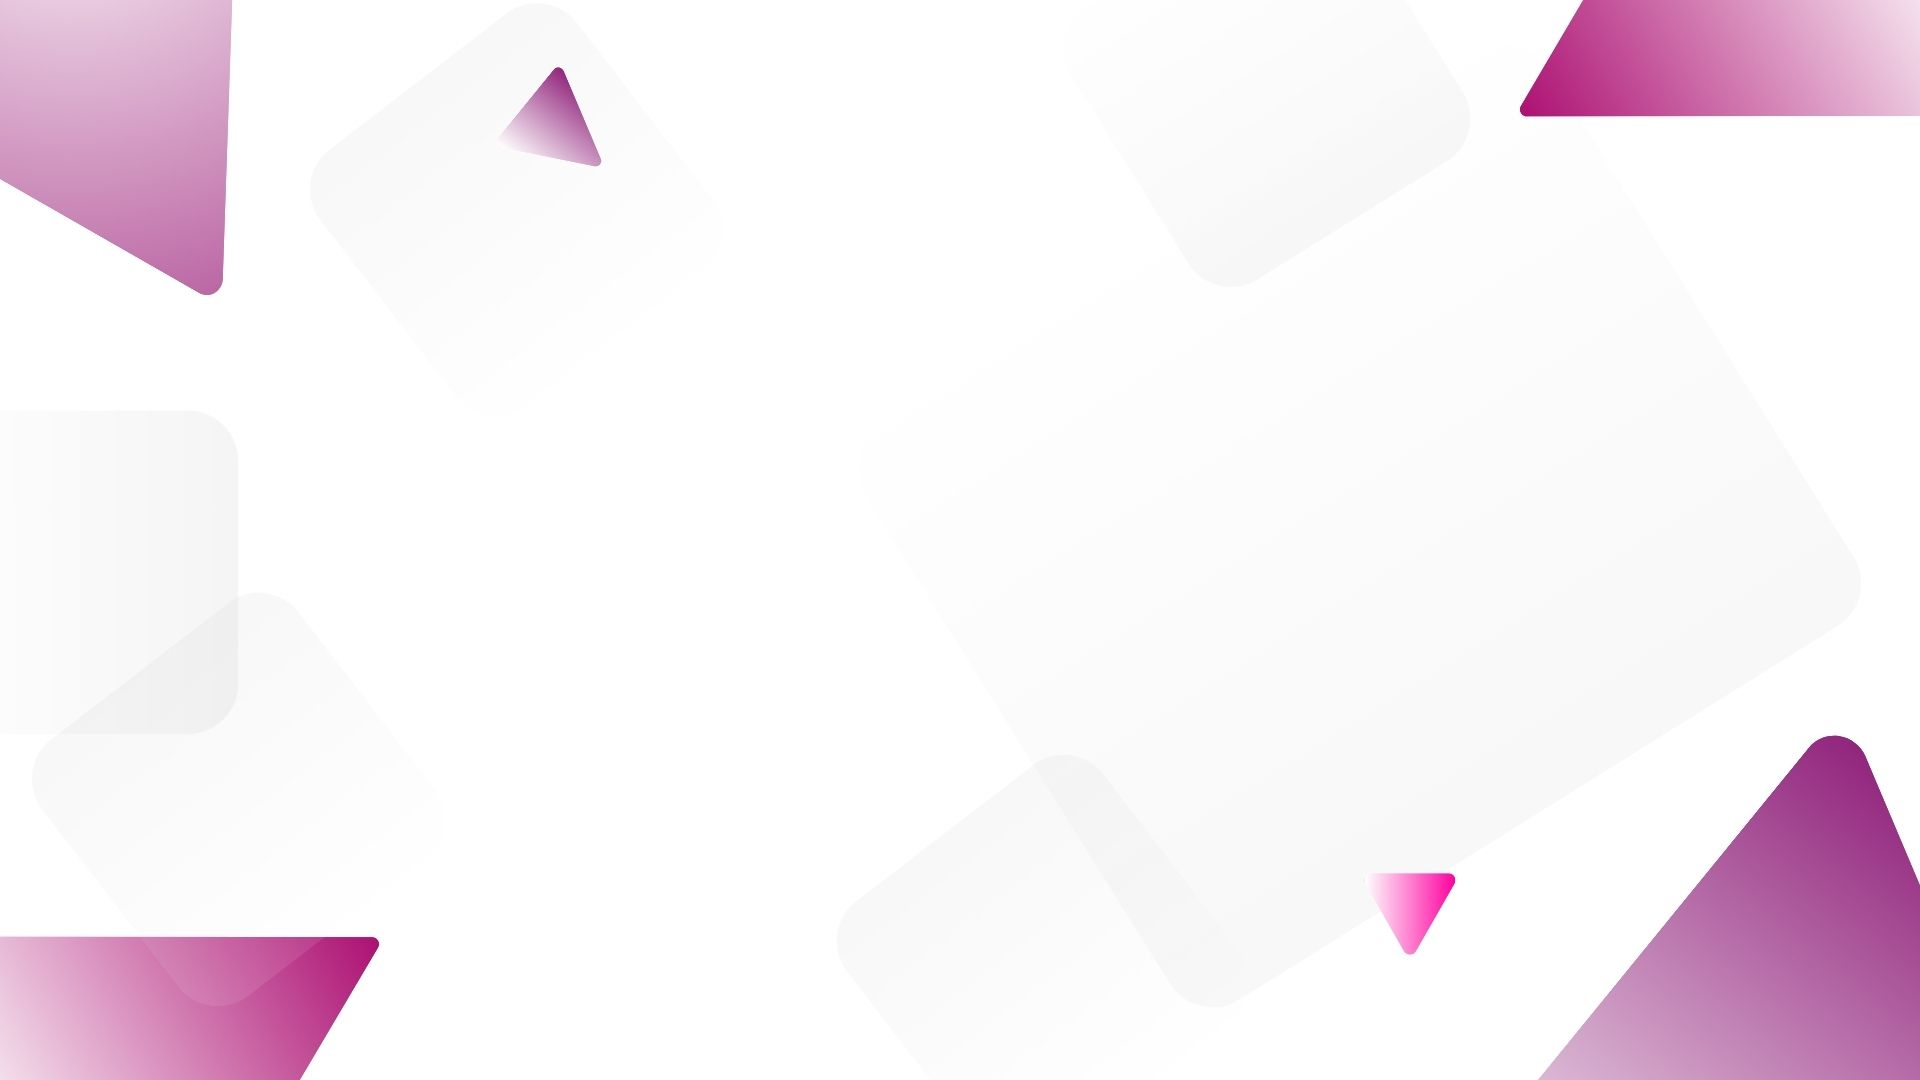
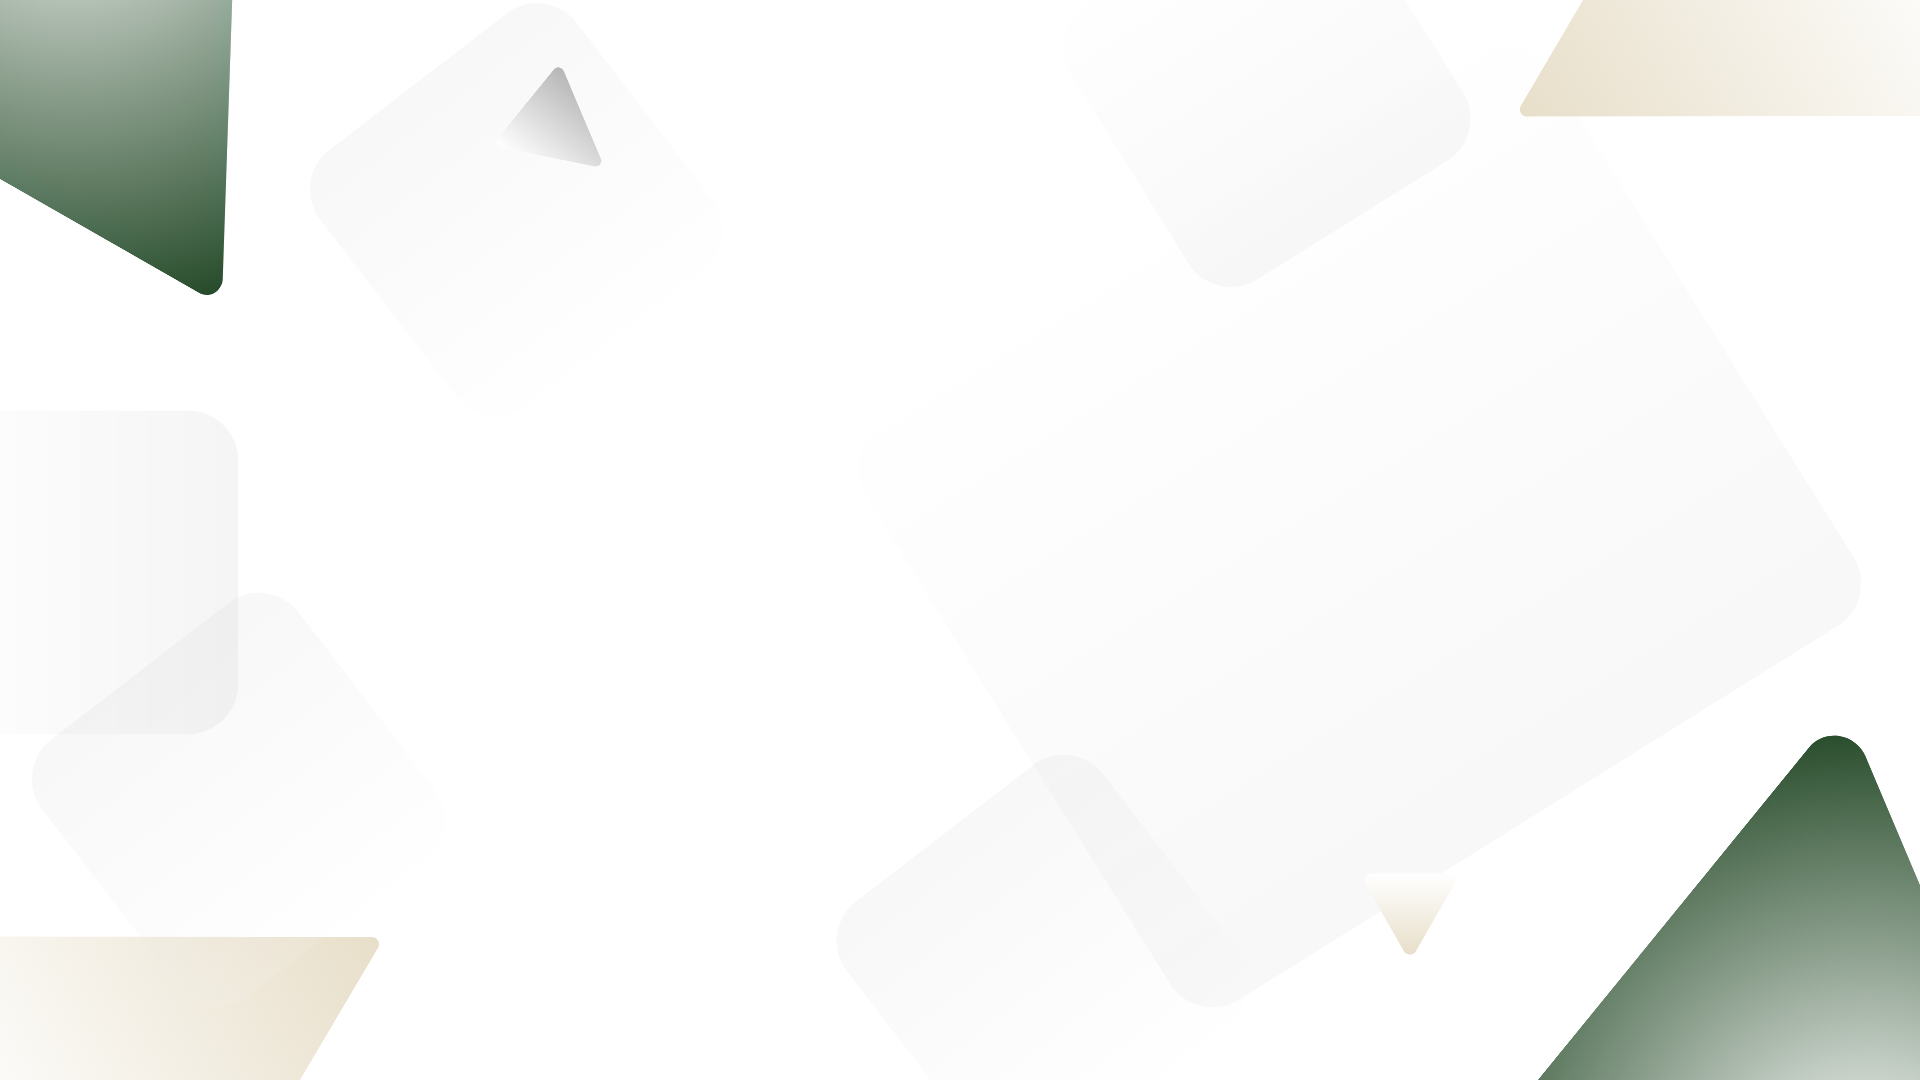
feat : ปรับแก้สี ภาพพื้นหลังของหน้าล้อกอิน

diff --git a/public/css/login.css b/public/css/login.css
@@ -17,7 +17,7 @@ body {
 .container {
     position: relative;
     max-width: 430px;
-    
+
     width: 100%;
     background: #fff;
     border-radius: 10px;
@@ -100,20 +100,20 @@ body {
 }
 
 .input-field input:is(:focus, :valid) {
-    border-bottom-color: #db00b6;
+    border-bottom-color: #157813;
 }
 
 .input-field i {
     position: absolute;
     top: 50%;
     transform: translateY(-50%);
-    color: #999;
+    color: #f6d5aa91;
     font-size: 23px;
     transition: all 0.2s ease;
 }
 
 .input-field input:is(:focus, :valid) ~ i {
-    color: #db00b6;
+    color: #236a13;
 }
 
 .input-field i.icon {
@@ -139,7 +139,7 @@ body {
 
 .checkbox-content input {
     margin-right: 10px;
-    accent-color: #6c00b4;
+    accent-color: #ffe3ab;
 }
 
 .form .text {
@@ -148,7 +148,7 @@ body {
 }
 
 .form a.text {
-    color: #bd4aff;
+    color: #21b921;
     text-decoration: none;
 }
 .form a:hover {

diff --git a/resources/views/auth/login.blade.php b/resources/views/auth/login.blade.php
@@ -20,7 +20,7 @@
                 <form action="{{ route('login') }}" method="post">
                     @csrf
                     <div class="input-field">
-                        
+
                         <input id="email" type="email" name="email" value="{{old('email')}}" placeholder="Enter your email" required>
                         <i class="uil uil-envelope"></i>
                     </div>
@@ -33,8 +33,8 @@
                             required>
                         <i class="uil uil-lock icon"></i>
                         <i class="uil uil-eye-slash showHidePw"></i>
-                        
-                        
+
+
                     </div>
                     @if($errors->has('password'))
                             <span class="error" style="color: red">{{ $errors->first('password') }}</span>
@@ -51,7 +51,7 @@
                     <div class="input-field">
                         <style>
                             input[type="submit"] {
-                                background-color: #b37cba;
+                                background-color: #7dba7c;
                                 /* สีม่วง */
                                 color: #ffffff;
                                 /* สีข้อความ */
@@ -64,7 +64,8 @@
                             }
                             /* เม้าส์ไปชี้ปุ่ม Submit */
                             input[type="submit"]:hover {
-                                background-color: #8c6196;
+                                background-color: #E8DFCA;
+                                color: black;
                                 /* สีม่วงอ่อน */
                             }
                         </style>
